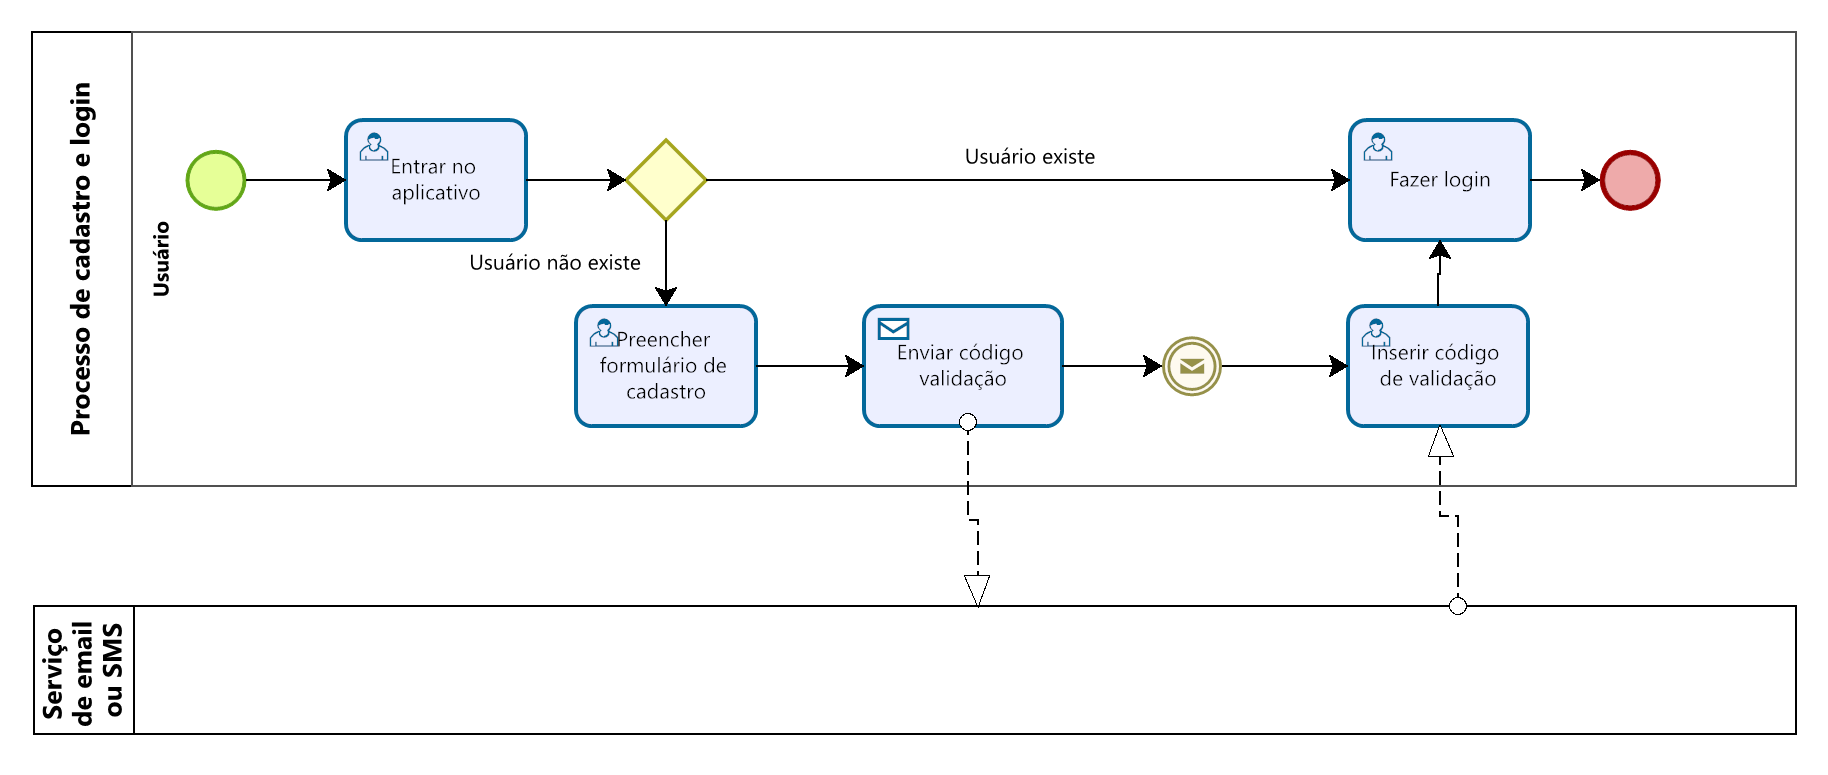
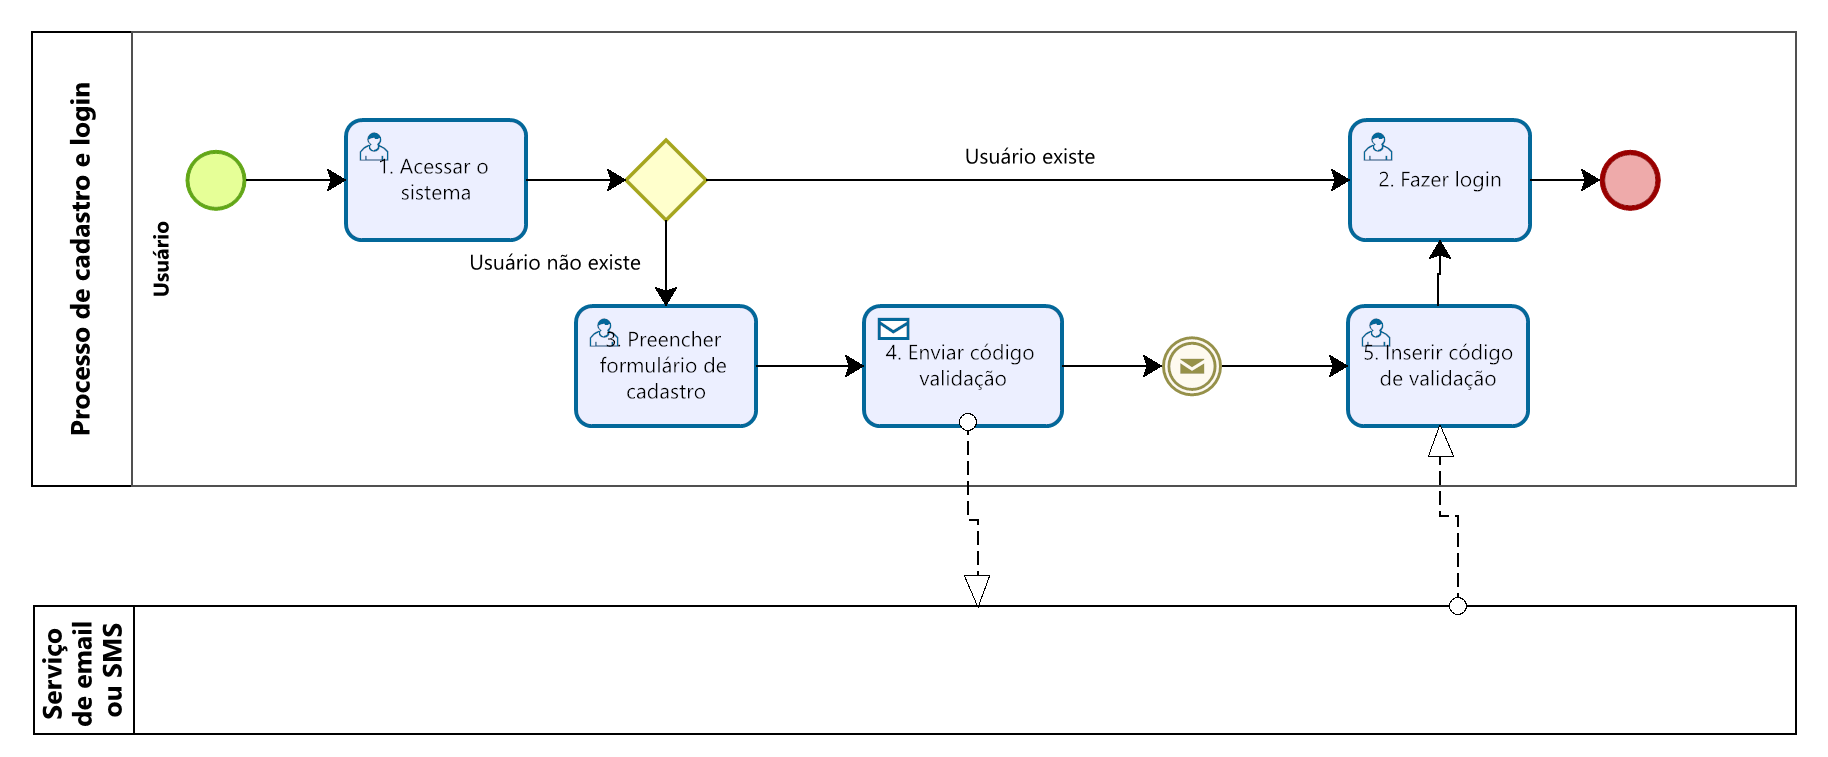
- Ajuste do modelo do processo 1 (#49)

diff --git a/docs/processos/processo-1-cadastro-e-login.md b/docs/processos/processo-1-cadastro-e-login.md
@@ -27,20 +27,7 @@ O processo de **Entrada no Sistema** inicia quando o usuário acessa o browser d
 
 ---
 
-**Atividade 2. Escolher Login ou Cadastro**
-
-| **Campo** | **Tipo** | **Restrições** | **Valor default** |
-|-----------|----------|----------------|-------------------|
-| Opção     | Seleção  | Login ou Cadastro | - |
-
-| **Comando**   | **Destino**           | **Tipo** |
-|---------------|----------------------|----------|
-| Entrar        | Tela de Login        | default  |
-| Criar una conta   | Tela de Cadastro     | default  |
-
----
-
-**Atividade 3. Fazer Login**
+**Atividade 2. Fazer Login**
 
 | **Campo** | **Tipo** | **Restrições** | **Valor default** |
 |-----------|----------|----------------|-------------------|
@@ -54,7 +41,7 @@ O processo de **Entrada no Sistema** inicia quando o usuário acessa o browser d
 
 ---
 
-**Atividade 4. Preencher Formulário de Cadastro**
+**Atividade 3. Preencher Formulário de Cadastro**
 
 | **Campo** | **Tipo** | **Restrições** | **Valor default** |
 |-----------|----------|----------------|-------------------|
@@ -63,6 +50,7 @@ O processo de **Entrada no Sistema** inicia quando o usuário acessa o browser d
 | Email/OuCelular| Texto | Formato e-mail - Celular somente números, 11 dígitos (DDD + número) | - |
 | Senha      | Número    | ≥ 0 | - |
 | gênero     | Seleção   | Masculino/Feminino/Outro | - |
+| Idade      | Número    | ≥ 0 | - |
 
 | **Comando**          | **Destino**              | **Tipo** |
 |----------------------|--------------------------|----------|
@@ -71,7 +59,7 @@ O processo de **Entrada no Sistema** inicia quando o usuário acessa o browser d
 
 ---
 
-**Atividade 5. Enviar Código de Validação**
+**Atividade 4. Enviar Código de Validação**
 
 | **Campo** | **Tipo** | **Restrições** | **Valor default** |
 |-----------|----------|----------------|-------------------|
@@ -83,7 +71,7 @@ O processo de **Entrada no Sistema** inicia quando o usuário acessa o browser d
 
 ---
 
-**Atividade 6. Inserir Código de Validação**
+**Atividade 5. Inserir Código de Validação**
 
 | **Campo** | **Tipo** | **Restrições** | **Valor default** |
 |-----------|----------|----------------|-------------------|
